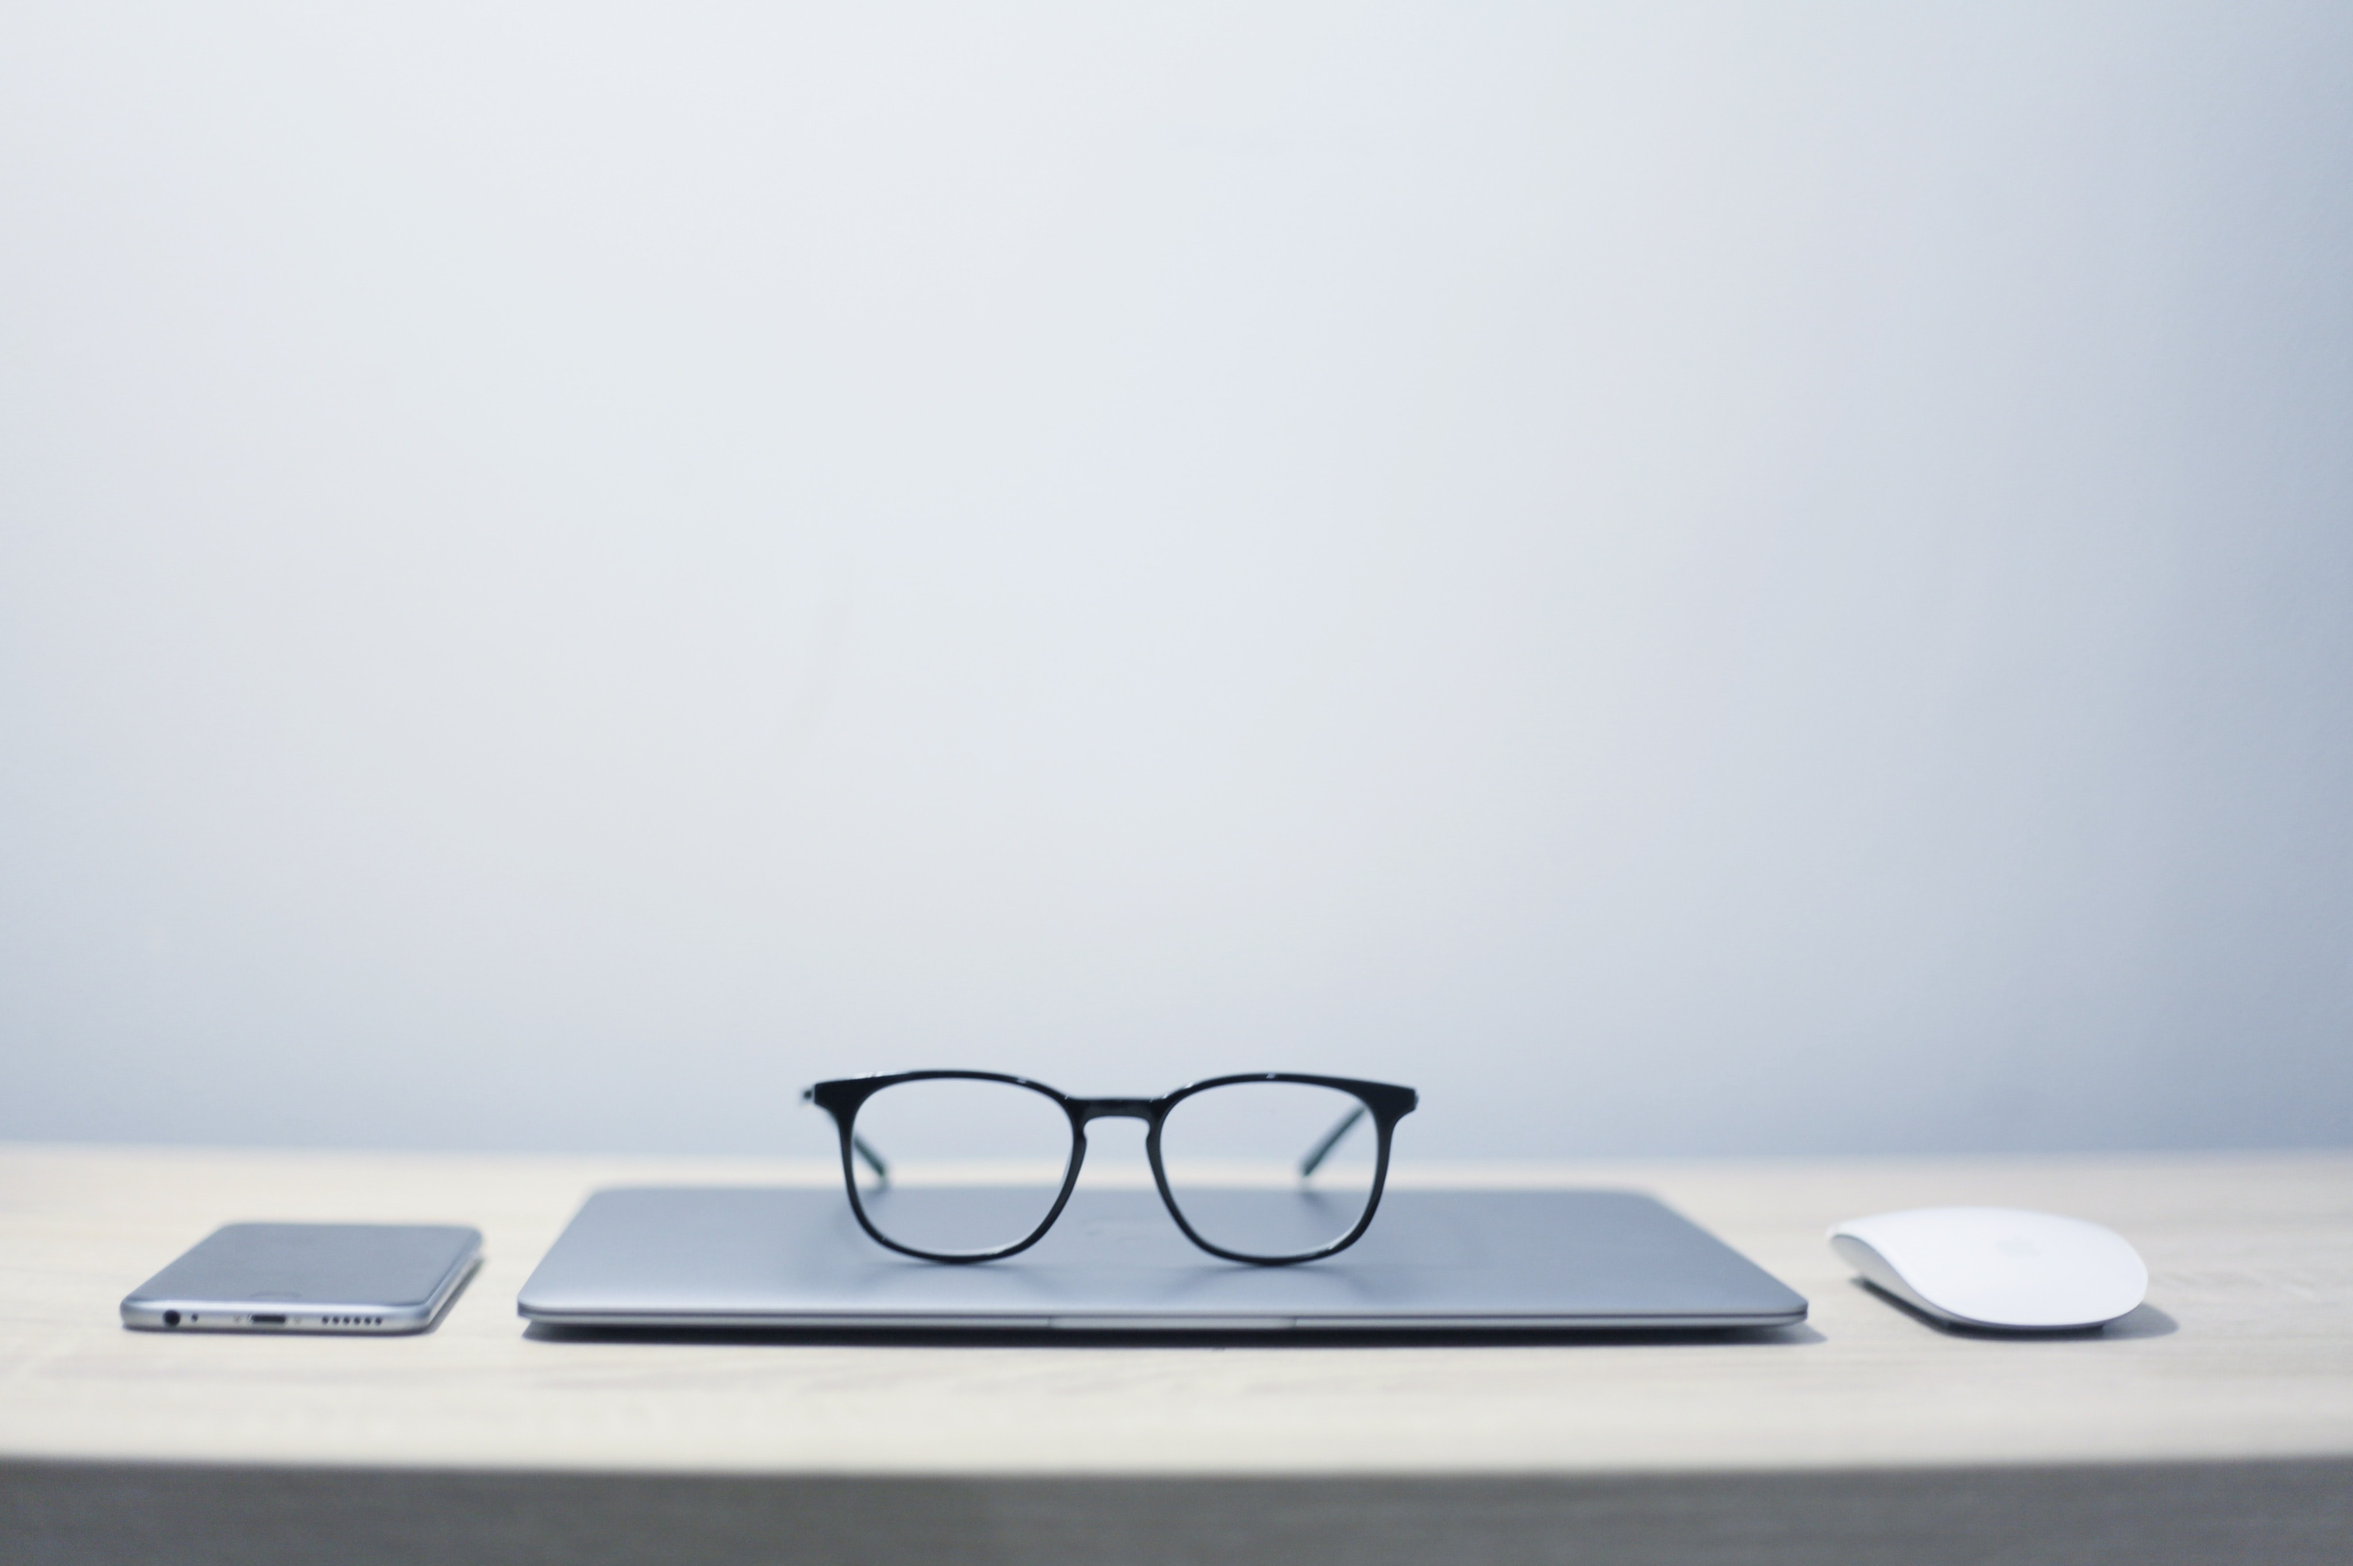
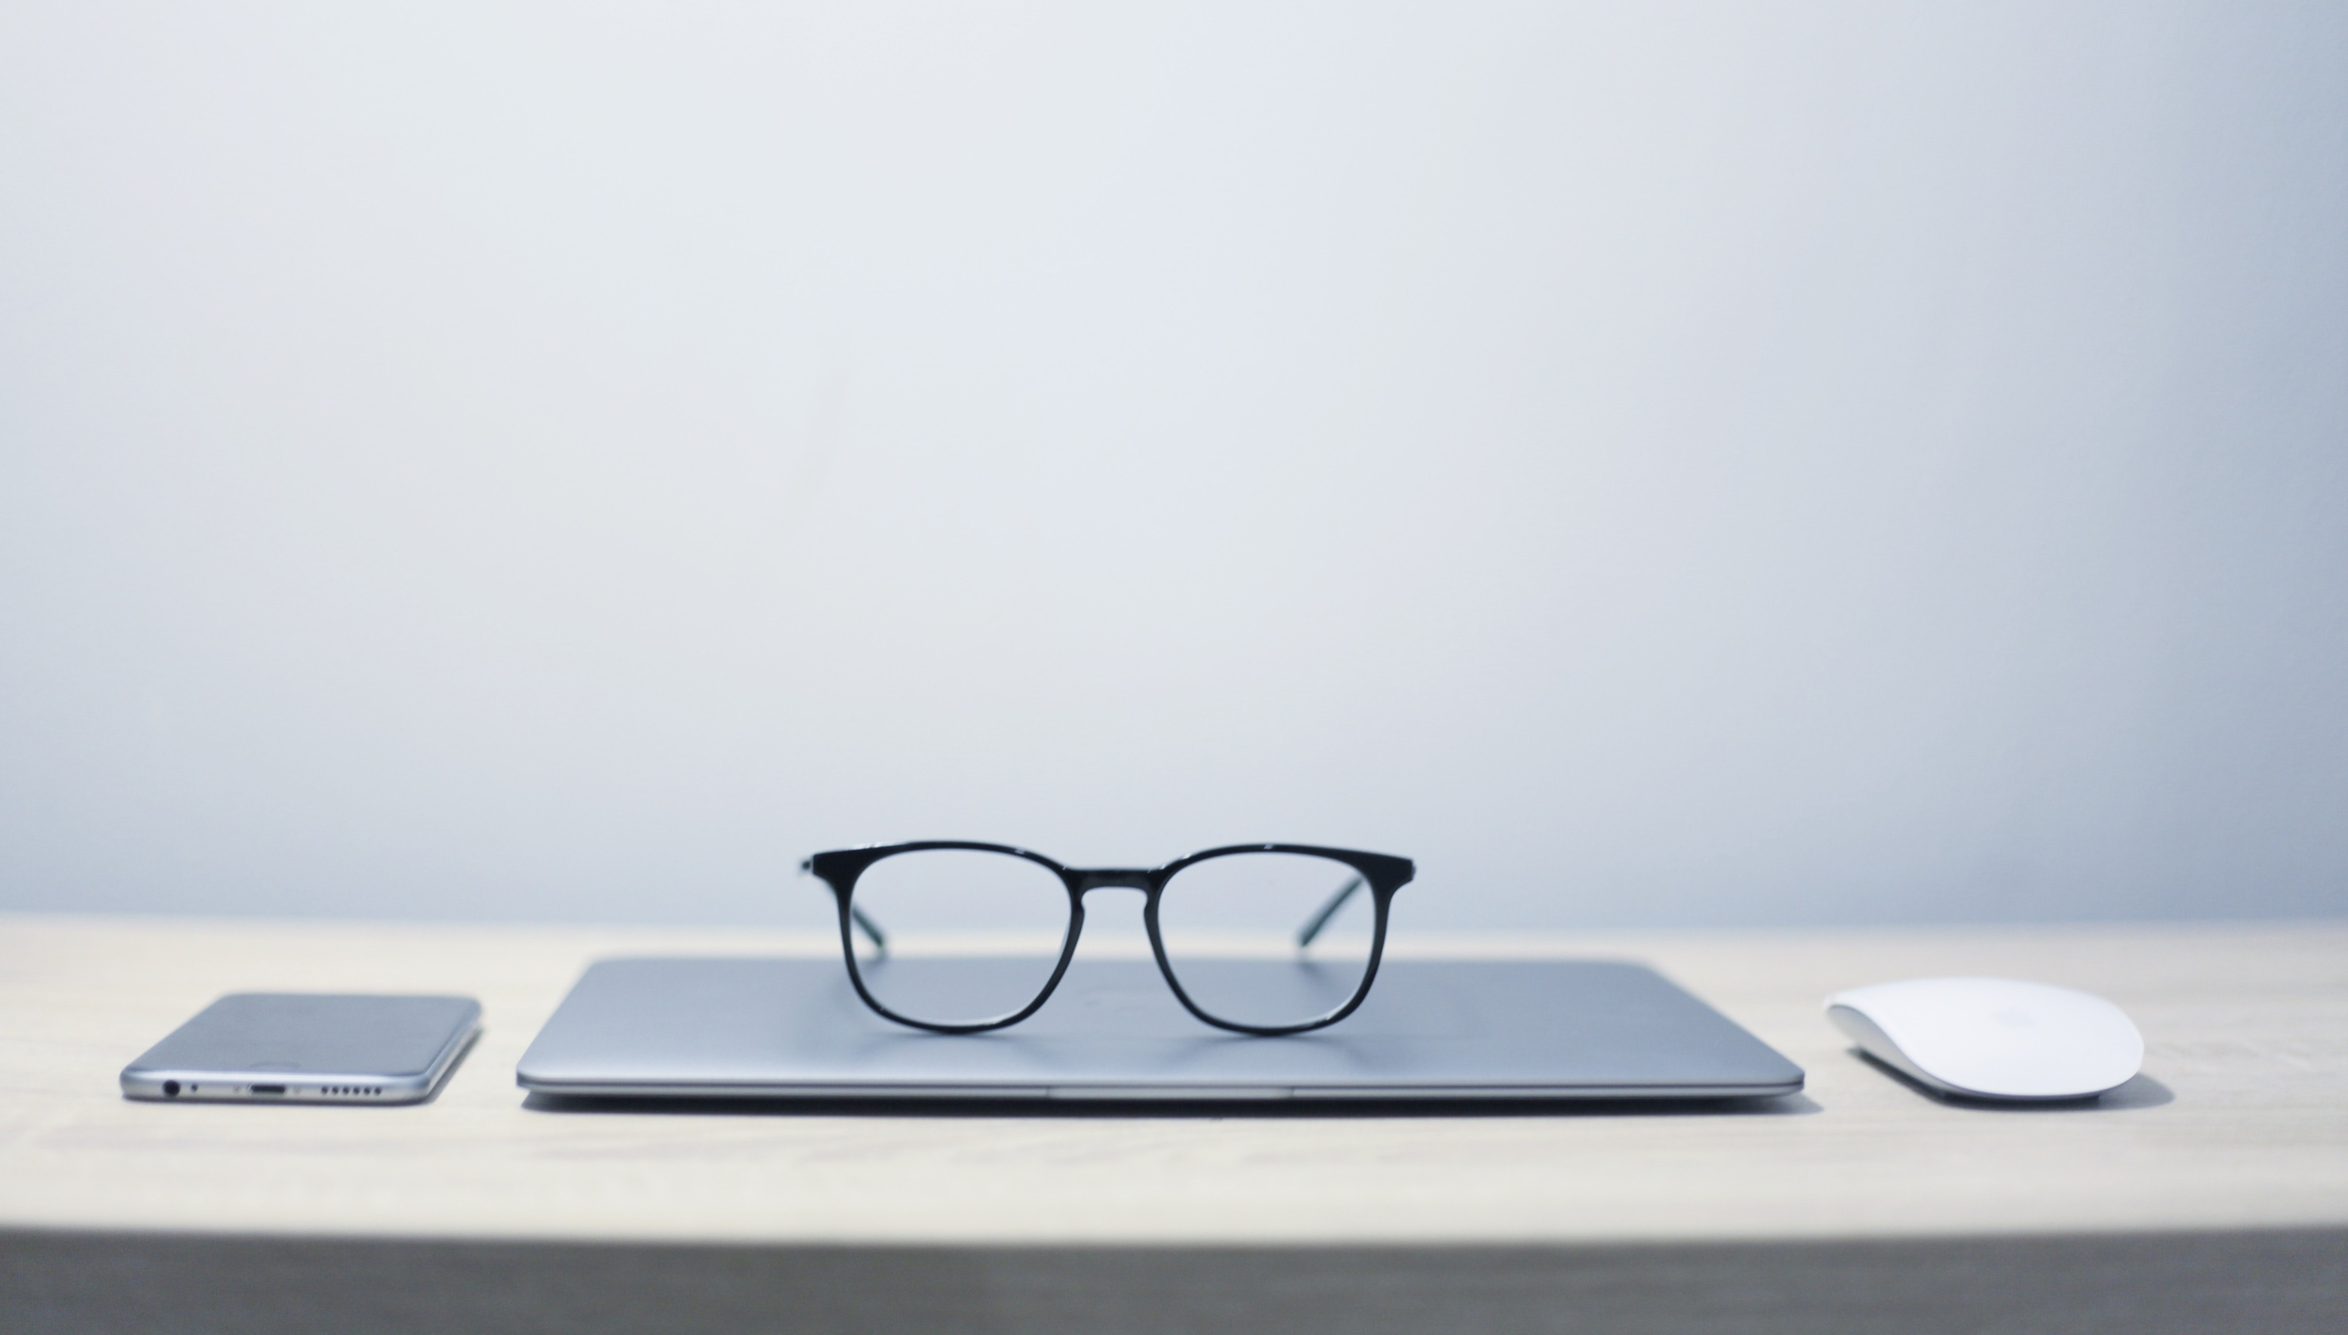
adjust background image on home page

Changed region(s): [[0.0, 0.6196, 1.0, 0.8675], [0.0, 0.8985, 1.0, 0.9604]]

diff --git a/src/HomePage.js b/src/HomePage.js
@@ -1,40 +1,39 @@
-import React from "react";
-import { makeStyles } from "@material-ui/core/styles";
+import React from 'react';
+import { makeStyles } from '@material-ui/core/styles';
 import { Grid } from '@material-ui/core';
-import ArrowForwardIcon from "@material-ui/icons/ArrowForward";
-import Background from "./assests/homeImage.jpg";
-import "typeface-roboto";
+import ArrowForwardIcon from '@material-ui/icons/ArrowForward';
+import Background from './assests/homeImage.jpg';
+import 'typeface-roboto';
 import './HomePage.css';
-import Skills from "./Skills";
-
+import Skills from './Skills';
 
 const useStyles = makeStyles(theme => ({
-
   homeContent: {
-    fontFamily: "Helvetica Neue",
-    fontStyle: "normal",
-    fontSize: "40px",
-    color: "white",
-    margin: "auto",
-    textAlign: "center"
+    fontFamily: 'Helvetica Neue',
+    fontStyle: 'normal',
+    fontSize: '40px',
+    color: 'white',
+    margin: 'auto',
+    textAlign: 'center',
   },
   typo: {
-    textAlign: "center",
-    color: "#E31B6D"
+    textAlign: 'center',
+    color: '#E31B6D',
   },
-  
+
   homeImage: {
-    height: "100vh",
+    height: '100vh',
     width: '100%',
-    textAlign: "center",
+    textAlign: 'center',
     backgroundImage: `url(${Background})`,
-    backgroundRepeat: "repeat",
-    display: "flex",
-    justifyContent: "center",
-    alignItems: "center",
-    flexDirection: "column",
+    backgroundRepeat: 'no-repeat',
+    backgroundSize: 'cover',
+    display: 'flex',
+    justifyContent: 'center',
+    alignItems: 'center',
+    flexDirection: 'column',
     // margin: "0px",
-    padding: '0px'
+    padding: '0px',
   },
 }));
 
@@ -42,33 +41,41 @@ const HomePage = props => {
   const classes = useStyles();
 
   return (
-    
     <div>
       <Grid item xs={12}>
-      <section className={classes.homeImage}>
-      <div>
-        <p className={classes.homeContent}>
-          Hello I'm 
-          <span className={classes.typo}>Aruni Patel</span>.
+        <section className={classes.homeImage}>
+          <div>
+            <p className={classes.homeContent}>
+              Hello I'm
+              <span className={classes.typo}>Aruni Patel</span>.
+            </p>
+            <p className={classes.homeContent}>I'm Web Developer.</p>
 
-        </p>
-        <p className={classes.homeContent}>
-        I'm Web Developer.
-        </p>
-        
-        <div className="homeWork" style={{"&:hover":{backgroundColor:"#555"}}}>
-          View my work
-          <ArrowForwardIcon className="Arrow" style={{position: "absolute", color: "white", fontSize: "30", right:"25px" }} />
-        </div>
+            <div
+              className="homeWork"
+              style={{ '&:hover': { backgroundColor: '#555' } }}
+            >
+              View my work
+              <ArrowForwardIcon
+                className="Arrow"
+                style={{
+                  position: 'absolute',
+                  color: 'white',
+                  fontSize: '30',
+                  right: '25px',
+                }}
+              />
+            </div>
+          </div>
+        </section>
+      </Grid>
+
+      {/* <div><NewNavbar /></div> */}
+      <div>
+        <Skills />
       </div>
-    </section>
-    </Grid>
-    
-    {/* <div><NewNavbar /></div> */}
-    <div><Skills /></div>
     </div>
   );
-  
 };
 
 export default HomePage;
